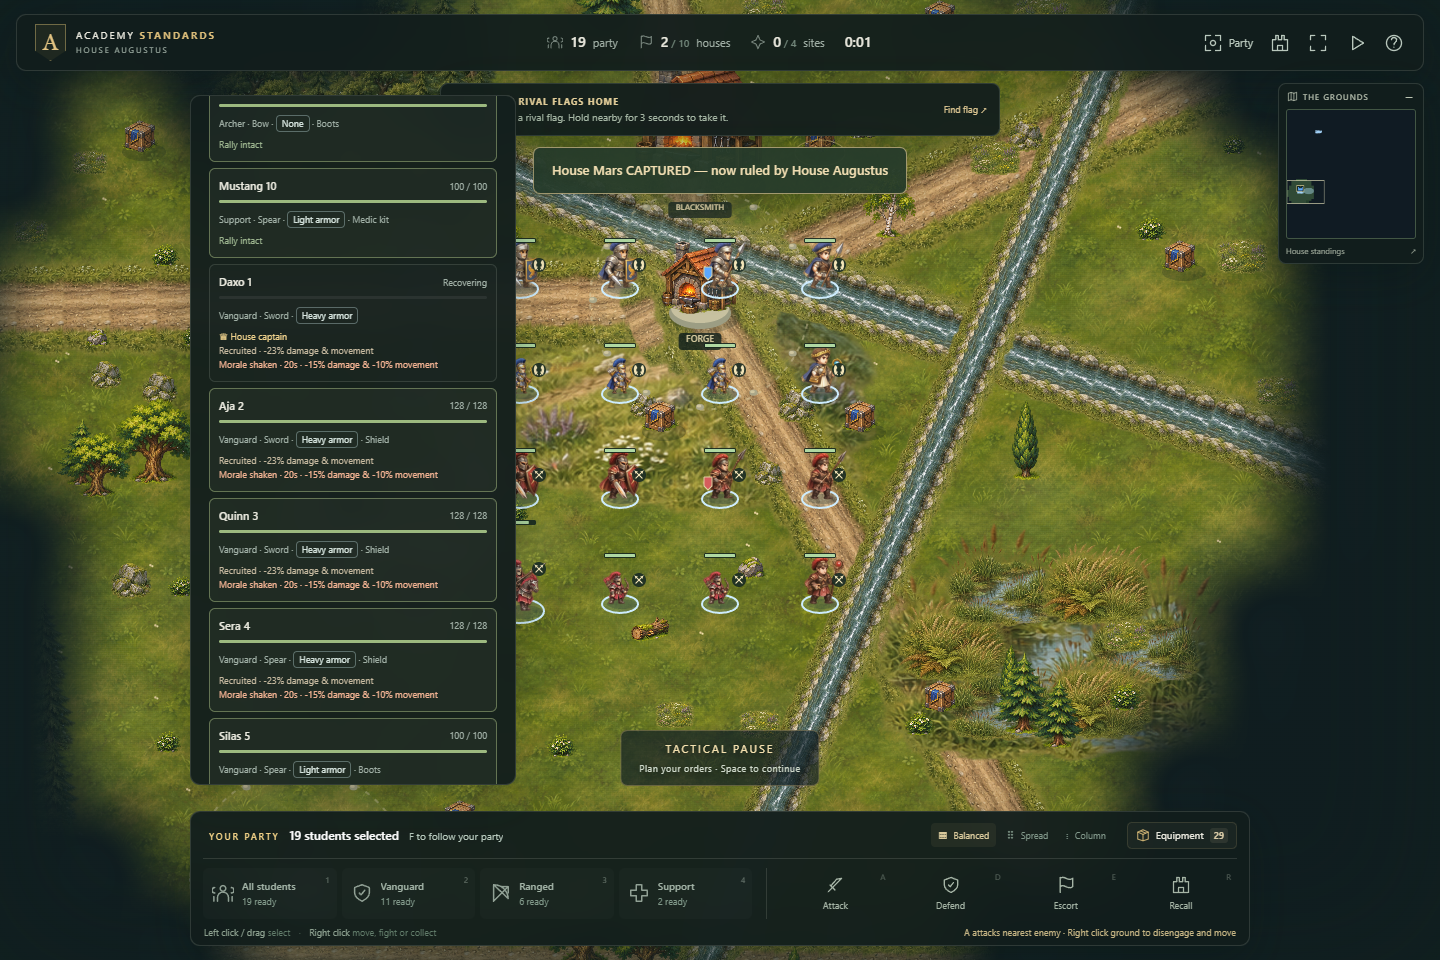
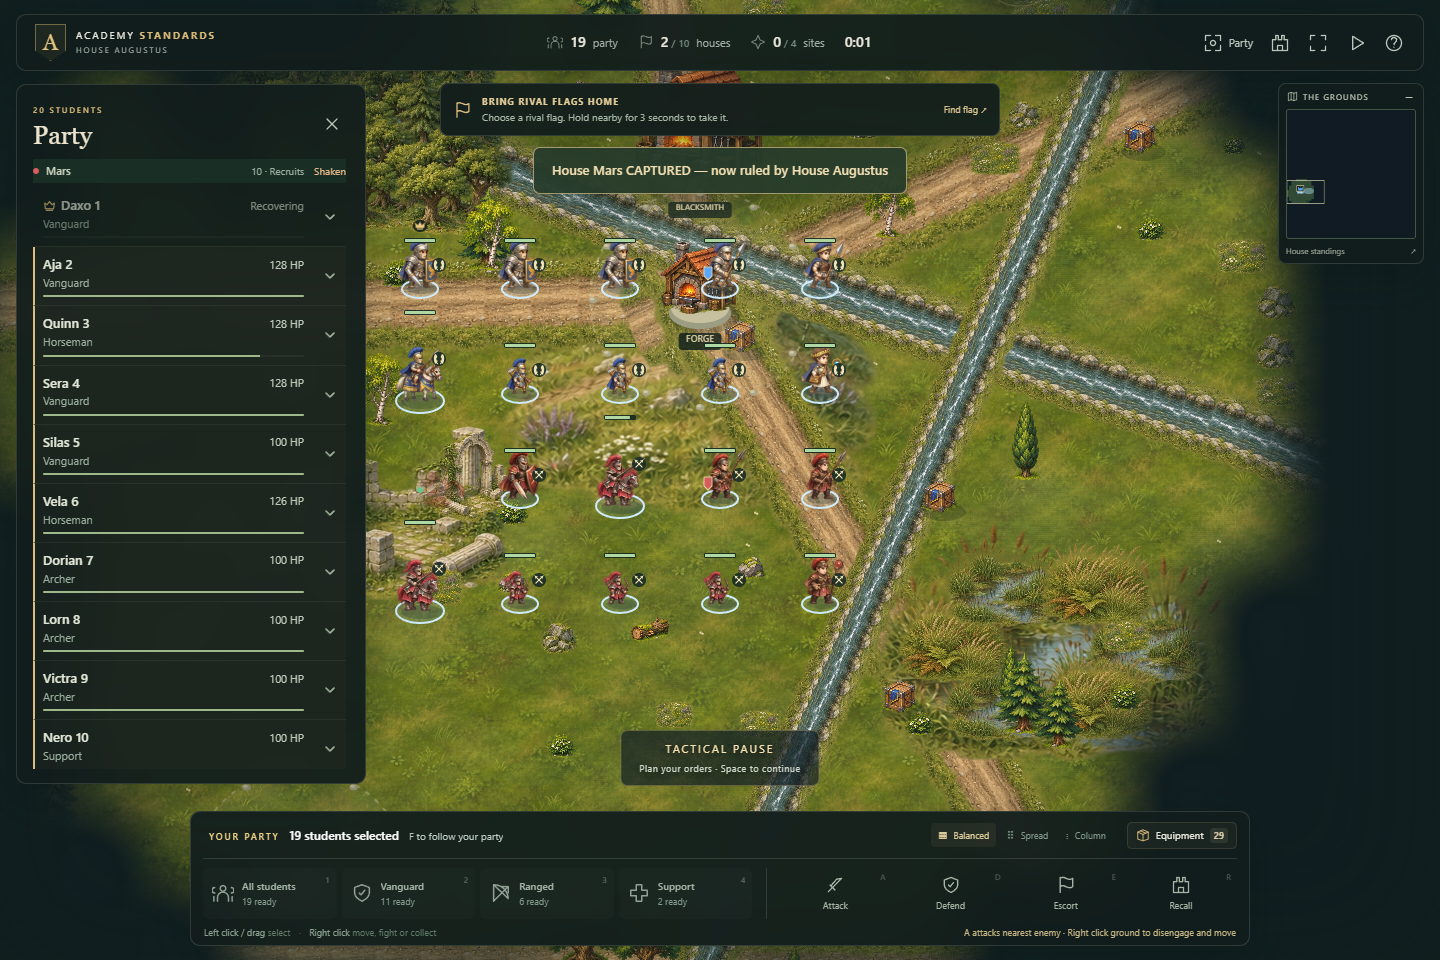
Simplify the party roster with optional student details

diff --git a/games/academy-standards/shell.js b/games/academy-standards/shell.js
@@ -3,7 +3,7 @@
  const $=id=>document.getElementById(id);
  const icon=name=>`<svg aria-hidden="true"><use href="#i-${name}"/></svg>`;
  const esc=value=>String(value??'').replace(/[&<>"']/g,c=>({'&':'&amp;','<':'&lt;','>':'&gt;','"':'&quot;',"'":'&#39;'}[c]));
- const ui={api:null,started:false,menu:true,drawer:null,difficulty:'normal',noticeUntil:0,noticeTimer:null,lastLog:null,drawerKey:'',lastMap:0,outcome:false,modalWasPaused:true,modalDone:null,savedSnapshot:null,lastSaveTime:0,storageAvailable:true,flagFocus:null,flagState:null,flagAnnounceKey:'',houseOwners:null,captureToastUntil:0,mapMarkers:null};
+ const ui={api:null,started:false,menu:true,drawer:null,inspectStudentId:null,rosterSquadsOpen:false,difficulty:'normal',noticeUntil:0,noticeTimer:null,lastLog:null,drawerKey:'',lastMap:0,outcome:false,modalWasPaused:true,modalDone:null,savedSnapshot:null,lastSaveTime:0,storageAvailable:true,flagFocus:null,flagState:null,flagAnnounceKey:'',houseOwners:null,captureToastUntil:0,mapMarkers:null};
  const roleNames={vanguard:'Vanguard',ranged:'Archer',support:'Support'};
  const houseMarks={player:'❧',mars:'⚔',minerva:'◇',diana:'☾',apollo:'☀',juno:'♛',neptune:'♆',vulcan:'⚒',venus:'✿',saturn:'♄'};
  const gearNames={Sword:'Sword',Spear:'Spear',Bow:'Bow',Longbow:'Longbow',Light:'Light armor',Heavy:'Heavy armor',Shield:'Shield',Boots:'Boots',Medkit:'Medic kit',Horse:'Horse',EngineerKit:'Engineer kit',TrapKit:'Trap kit',WarHorn:'War horn',FireOil:'Fire oil'};
@@ -21,8 +21,27 @@
   if(status?.isCaptain)lines.push('<span class="captain-tag">♛ House captain</span>');
   if(s.slaveDebuff)lines.push('<span class="recruited-status">Recruited · -23% damage &amp; movement</span>');
   if(status?.shaken)lines.push(`<span class="shaken-status">Morale shaken · ${Math.max(1,Math.ceil(status.remaining||0))}s · -15% damage &amp; -10% movement</span>`);
-  else if(status&&s.controller==='player')lines.push('<span class="rallied-status">Rally intact</span>');
   return lines.length?`<small class="student-status">${lines.join('')}</small>`:'';
+ }
+
+ const captainMark='<span class="captain-marker" role="img" aria-label="House captain" title="House captain"><svg viewBox="0 0 16 16" aria-hidden="true"><path d="M2 5l3 2 3-4 3 4 3-2-1 7H3zM4 14h8"/></svg></span>';
+ function studentDetail(api,s){
+  const weapon=s.weapon==='None'?'Unarmed':esc(s.weapon)+(s.weaponLevel>1?' · Lv. '+s.weaponLevel:'');
+  return `<div class="student-detail" id="student-detail-${s.id}"><div class="student-detail-heading"><b>${esc(api.getHouse(s.origHouse).name)}</b><span>${Math.ceil(s.hp)} / ${s.maxHp} HP</span></div><dl class="student-equipment"><div><dt>Weapon</dt><dd>${weapon}</dd></div><div><dt>Armor</dt><dd>${s.armor==='None'?'No armor':esc(gearNames[s.armor]||s.armor)}</dd></div><div><dt>Utility</dt><dd>${s.item==='None'?'—':esc(gearNames[s.item]||s.item)}</dd></div>${s.mount?'<div><dt>Mount</dt><dd>Horse</dd></div>':''}</dl>${studentStatus(api,s)}</div>`;
+ }
+ function roster(api){
+  const g=api.game,units=g.students.filter(s=>s.controller==='player');
+  if(!units.some(s=>s.id===ui.inspectStudentId))ui.inspectStudentId=null;
+  const prior=document.querySelector('.roster-squads');if(prior)ui.rosterSquadsOpen=!!prior.open;
+  const groups=api.HOUSE_DEFS.filter(h=>units.some(s=>s.origHouse===h.id));
+  const list=groups.map(h=>{
+   const members=units.filter(s=>s.origHouse===h.id),shaken=api.isHouseShaken?.(members[0]);
+   return `<section class="roster-group" aria-label="${esc(h.name)}"><div class="roster-group-heading"><span><i style="background:${h.color}" aria-hidden="true"></i>${esc(h.name.replace(/^House /,''))}</span><small>${members.length}${h.id!=='player'?' · Recruits':''}${shaken?' <span class="roster-morale" title="Captain down. Inspect a student for details.">Shaken</span>':''}</small></div>${members.map(s=>{
+    const selected=g.selected.has(s.id),expanded=ui.inspectStudentId===s.id;
+    return `<div class="roster-entry ${selected?'active':''} ${s.state==='knocked'?'recovering':''}"><div class="roster-row"><button class="roster-card" data-student="${s.id}" aria-pressed="${selected}"><div class="roster-name-row"><b>${api.isHouseCaptain?.(s)?captainMark:''}${esc(s.name)}</b><small class="roster-hp">${s.state==='knocked'?'Recovering':Math.ceil(s.hp)+' HP'}</small></div><small class="roster-role">${s.mount?'Horseman':roleNames[api.getRole(s)]}</small><div class="health-track" aria-hidden="true"><span style="width:${Math.max(0,Math.min(100,s.hp/s.maxHp*100))}%"></span></div></button><button class="roster-info ${expanded?'expanded':''}" data-inspect-student="${s.id}" aria-label="Details for ${esc(s.name)}" aria-expanded="${expanded}" aria-controls="student-detail-${s.id}"><svg viewBox="0 0 16 16" aria-hidden="true"><path d="M4 6l4 4 4-4"/></svg></button></div>${expanded?studentDetail(api,s):''}</div>`;
+   }).join('')}</section>`;
+  }).join('');
+  return `${list}<details class="roster-squads" ${ui.rosterSquadsOpen?'open':''}><summary>Squads</summary><div class="build-row"><button data-save="2">Save to 2</button><button data-save="3">Save to 3</button><button data-save="4">Save to 4</button></div><button class="roster-reset" data-reset-squads>Reset squads</button></details>`;
  }
 
  function refreshFullscreen(){
@@ -182,12 +201,12 @@
 
  function toggleDrawer(type){
   if(ui.drawer===type){closeDrawer();return;}
-  ui.drawer=type;ui.drawerKey='';$('drawer').classList.remove('hidden');$('drawer').classList.toggle('armory-drawer',type==='equipment');renderDrawer(ui.api);
+  ui.drawer=type;ui.drawerKey='';ui.inspectStudentId=null;ui.rosterSquadsOpen=false;$('drawer').classList.remove('hidden');$('drawer').classList.toggle('armory-drawer',type==='equipment');$('drawer').classList.toggle('roster-drawer',type==='roster');renderDrawer(ui.api);
  }
  function closeDrawer(){ui.drawer=null;$('drawer').classList.add('hidden');if(!ui.menu&&$('modal').classList.contains('hidden'))ui.api?.canvas.focus({preventScroll:true});}
  function renderDrawer(api){
   if(!api)return;const g=api.game,sel=api.getSelectedUnits(),stock=api.getPlayerHouse().stockpile;
-  const key=ui.drawer+'|'+sel.map(s=>`${s.id}:${ui.drawer==='equipment'?'':Math.round(s.hp)}:${s.weapon}:${s.item}:${s.state}`).join(',')+'|'+Object.values(stock).join(',')+'|'+g.houses.map(h=>h.controller).join(',')+'|'+g.activeSquad+'|'+JSON.stringify(window.AcademyArmory?.state)+'|'+g.students.filter(s=>s.controller==='player').map(s=>[s.id,s.weapon,s.weaponLevel,s.armor,s.item,s.mount,s.state].join(':')).join(',')+'|'+(ui.drawer==='roster'?Math.floor(g.time):'');
+  const key=ui.drawer+'|'+sel.map(s=>`${s.id}:${ui.drawer==='equipment'?'':Math.round(s.hp)}:${s.weapon}:${s.item}:${s.state}`).join(',')+'|'+Object.values(stock).join(',')+'|'+g.houses.map(h=>h.controller).join(',')+'|'+g.activeSquad+'|'+JSON.stringify(window.AcademyArmory?.state)+'|'+g.students.filter(s=>s.controller==='player').map(s=>[s.id,s.weapon,s.weaponLevel,s.armor,s.item,s.mount,s.state].join(':')).join(',')+'|'+(ui.drawer==='roster'?Math.floor(g.time)+'|'+ui.inspectStudentId:'');
   if(key===ui.drawerKey)return;ui.drawerKey=key;
   let title='',eyebrow='',body='';
   if(ui.drawer==='equipment'){
@@ -195,9 +214,7 @@
    const priorList=document.querySelector('.armory-students');if(priorList)window.AcademyArmory.state.open=priorList.open;
    body=window.AcademyArmory.render(api);
   }else if(ui.drawer==='roster'){
-   title='Students & squads';eyebrow='YOUR PARTY';
-   const units=g.students.filter(s=>s.controller==='player');
-   body=`<p>Click a student to select them. Shift-click adds or removes students. Gold crowns identify house captains. Save a selection to a squad below.</p><div class="build-row"><button data-save="2">Save to 2</button><button data-save="3">Save to 3</button><button data-save="4">Save to 4</button></div><p><kbd>Ctrl + 2 / 3 / 4</kbd> also saves a squad.</p>${units.map(s=>`<button class="roster-card ${g.selected.has(s.id)?'active':''}" data-student="${s.id}"><div class="row"><b>${esc(s.name)}</b><small>${s.state==='knocked'?'Recovering':`${Math.ceil(s.hp)} / ${s.maxHp}`}</small></div><div class="health-track"><span style="width:${Math.max(0,s.hp/s.maxHp)*100}%"></span></div><small>${roleNames[api.getRole(s)]}${s.mount?' · Mounted':''} · ${s.weapon==='None'?'Unarmed':esc(s.weapon)} · <span class="armor-badge ${api.isChampionArmor(s.armor)?'champion':''}">${esc(gearNames[s.armor]||s.armor)}</span>${s.item!=='None'?' · '+esc(gearNames[s.item]||s.item):''}</small>${studentStatus(api,s)}</button>`).join('')}<button class="wide-button" data-reset-squads>Restore automatic role squads</button>`;
+   title='Party';eyebrow=g.students.filter(s=>s.controller==='player').length+' STUDENTS';body=roster(api);
   }else if(ui.drawer==='standings'){
    title='The ten houses';eyebrow='RIVAL STANDARDS';
    const houses=[...g.houses].sort((a,b)=>(mapMemory[a.id]==='player'?-1:0)-(mapMemory[b.id]==='player'?-1:0)||a.name.localeCompare(b.name));
@@ -205,7 +222,14 @@
   }else if(ui.drawer==='strategy'){
    title='Fight with a plan';eyebrow='TERRAIN & TACTICS';body=`<p>Your students and castles share sight. Unexplored ground is hidden; explored ground stays dim until scouted again. Enemies disappear when sight is lost.</p><p>Almost all supplies lie in the center; home deliveries are rare. Scout and contest the central crates to equip your party.</p><div class="terrain-guide">${[['forest',0,'Woodland','Walkable cover. Slower travel, shorter sight and concealed troops.'],['marsh',1,'Marsh','Slow ground. Horses lose more speed than infantry.'],['ridge',4,'Rocky ridge','Blocks movement and vision. Find a route around it.'],['ruins',5,'Ruins','Broken walls conceal troops and slow movement.'],['hill',6,'High ground','Wider sight and a longer view across the field.'],['road',8,'Road','Faster movement; useful for reinforcement and retreat.'],['river',15,'River & ford','Crossable shallows slow your march. Deep ponds block movement.']].map(([type,frame,name,description])=>`<div class="terrain-card"><span class="terrain-thumb" style="background-position:${(frame%4)*100/3}% ${Math.floor(frame/4)*100/3}%"></span><div><b>${name}</b><p>${description}</p></div></div>`).join('')}</div><p>Positioning and party composition change the outcome of a fight. Attacks land after a visible windup: watch the weapon, then reposition.</p>${api.getCounters().map(x=>`<div class="counter-card"><b>${esc(x.name)}</b><p>${esc(x.detail)}</p></div>`).join('')}<p>Each house has one captain, marked with a gold crown. If the captain falls, their original housemates serving the same ruler become morale shaken: -15% damage and -10% movement for up to 20 seconds. The captain's recovery rallies them early.</p><p>Captured recruits have a separate, lasting weakness: -23% damage and movement while serving another house. Recruits can also become morale shaken; both reductions apply.</p><p>Taking a flag requires a 3-second hold nearby. Damage or nearby enemies interrupt it. Escort the carrier home to capture its castle.</p><p>Central sites grant speed, damage, healing or faster smithing. Enemy presence pauses their capture.</p>`;
   }
+  const scrollArea=ui.drawer==='roster'?$('drawerBody'):$('drawer'),scroll=scrollArea.scrollTop,active=document.activeElement;
+  let focusSelector=null;
+  if(ui.drawer==='roster'&&$('drawerBody').contains(active)){
+   for(const attr of ['data-inspect-student','data-student','data-save','data-reset-squads'])if(active.hasAttribute(attr)){focusSelector=`[${attr}="${active.getAttribute(attr)}"]`;break;}
+   if(active.tagName==='SUMMARY')focusSelector='.roster-squads summary';
+  }
   text($('drawerTitle'),title);text($('drawerEyebrow'),eyebrow);html($('drawerBody'),body);
+  if(ui.drawer==='roster'){scrollArea.scrollTop=scroll;if(focusSelector)$('drawerBody').querySelector(focusSelector)?.focus({preventScroll:true});}
  }
 
  function openMenu(){
@@ -270,6 +294,12 @@
   $('equipmentToggle').addEventListener('click',()=>toggleDrawer('equipment'));$('rosterToggle').addEventListener('click',()=>toggleDrawer('roster'));$('standingsToggle').addEventListener('click',()=>toggleDrawer('standings'));$('closeDrawer').addEventListener('click',closeDrawer);
   $('drawerBody').addEventListener('click',e=>{
    if(ui.drawer==='equipment'&&window.AcademyArmory.handleClick(e,ui.api,toast)){ui.drawerKey='';update(ui.api);return;}
+   const inspect=e.target.closest('[data-inspect-student]');
+   if(inspect){
+    const id=inspect.dataset.inspectStudent,student=ui.api.game.students.find(s=>s.id===id&&s.controller==='player');if(!student)return;
+    ui.inspectStudentId=ui.inspectStudentId===id?null:id;ui.drawerKey='';renderDrawer(ui.api);
+    if(ui.inspectStudentId)$('student-detail-'+id)?.scrollIntoView?.({block:'nearest'});return;
+   }
    const equip=e.target.closest('[data-equip]'),gear=e.target.closest('[data-gear]'),student=e.target.closest('[data-student]'),save=e.target.closest('[data-save]'),build=e.target.closest('[data-build]');
    if(equip){if(!ui.api.getSelectedUnits().length){toast('Select a student or squad first.');return;}equip.dataset.equip==='auto'?ui.api.autoEquipSelected():ui.api.equipPreset(equip.dataset.equip);}
    if(gear)ui.api.spendLootOnSelected(gear.dataset.gear);

diff --git a/games/academy-standards/style.css b/games/academy-standards/style.css
@@ -32,4 +32,20 @@
 .armory-drawer .gear-grid{grid-template-columns:repeat(2,minmax(0,1fr))}.armory-drawer .gear-item{display:flex;gap:9px}.armory-drawer .gear-item>svg{width:23px;height:23px;color:#d5c28d}.gear-item em{display:block;font:normal 8px 'Segoe UI',sans-serif;color:#c8b16e;letter-spacing:.8px;text-transform:uppercase;margin-bottom:3px}.relic-portrait{display:block!important;width:40px;height:54px;flex:0 0 40px;background-size:800% 200%;background-position:0 0;background-repeat:no-repeat;filter:drop-shadow(0 2px 4px #0006)}.armory-item-action{position:sticky;bottom:-18px;margin:14px -4px 2px;padding:12px;background:#142823fa;border:1px solid #dbc08088;box-shadow:0 -5px 20px #0d1919;display:flex;align-items:center;justify-content:space-between;gap:12px;border-radius:7px;z-index:3}.armory-item-action b{font-size:12px;color:#edd8a6}.armory-item-action small{display:block;font-size:10px;color:var(--muted);margin-top:3px}.armory-item-action .primary-button{padding:10px 12px;font-size:11px;white-space:nowrap}.relic-guide{margin-top:15px;font-size:11px;border:1px solid #d4b96e40;padding:10px;border-radius:6px}.relic-guide summary{cursor:pointer;color:#d9c286}.relic-guide p{font-size:10px!important;line-height:1.6}.armory-student small{line-height:1.6}.armor-badge{display:inline-block;padding:1px 5px;font-size:9px;border:1px solid #a8c2c170;border-radius:4px;color:#d4e2dc}.armor-badge.champion{color:#f7d57c;border-color:#dfbd68aa;background:#b5932522}
 @media(max-width:520px){.armory-drawer .gear-grid{grid-template-columns:1fr}.armory-item-action{align-items:flex-start}.armory-item-action .primary-button{font-size:10px}.relic-portrait{width:36px;height:48px;flex-basis:36px}}
 .armory-hero .armory-relic-link{display:block;width:100%;text-align:center;margin-top:8px;font-size:10px;color:#e5c77d;padding:5px}
-.student-status{display:block;margin-top:6px;line-height:1.55;font-size:9px}.student-status>span{display:block}.student-status .captain-tag{color:#eed18c}.student-status .recruited-status{color:#c7baa0}.student-status .shaken-status{color:#f1b292}.student-status .rallied-status{color:#9db58f}.unit-tooltip .student-status{max-width:215px}
+.student-status{display:block;margin-top:6px;line-height:1.55;font-size:9px}.student-status>span{display:block}.student-status .captain-tag{color:#eed18c}.student-status .recruited-status{color:#c7baa0}.student-status .shaken-status{color:#f1b292}.unit-tooltip .student-status{max-width:215px}
+
+/* Compact party list. Equipment and effect details open for one student only. */
+.drawer.roster-drawer{top:84px;bottom:auto;left:16px;width:350px;max-height:calc(100dvh - 260px);padding:14px 16px;display:flex;flex-direction:column;overflow:hidden}
+.roster-drawer #drawerBody{overflow-y:auto;min-height:0;overscroll-behavior:contain;padding-right:3px}.roster-drawer .drawer-heading{margin-bottom:10px;flex:0 0 auto}.roster-drawer .drawer-heading h2{font-size:25px}
+.roster-group{margin:0 0 12px}.roster-group-heading{display:flex;align-items:center;justify-content:space-between;gap:8px;margin:0 0 5px;padding:4px 0;color:#c9d2bd;font-size:11px;position:sticky;top:0;background:#192e25;z-index:1}
+.roster-group-heading>span{display:flex;align-items:center;gap:7px;font-weight:600}.roster-group-heading i{width:6px;height:6px;border-radius:50%}.roster-group-heading small{font-size:10px;color:#9daf9f}.roster-morale{color:#e6b789;margin-left:7px}
+.roster-entry{border-bottom:1px solid #c3cda015;border-left:2px solid transparent}.roster-entry.active{border-left-color:#d9bc7e;background:#d9bc7e07}.roster-row{display:grid;grid-template-columns:minmax(0,1fr) 32px;align-items:center;min-height:55px}
+.roster-drawer .roster-card{display:block;min-width:0;width:100%;padding:8px 10px 8px 8px;margin:0;border:0;border-radius:0;background:none;text-align:left}.roster-drawer .roster-card:hover{background:#ffffff06}
+.roster-name-row{display:flex;align-items:center;justify-content:space-between;gap:8px}.roster-drawer .roster-card b{display:flex;align-items:center;gap:5px;min-width:0;font-size:13px;font-weight:600;color:#e2e8d7}.roster-drawer .roster-hp{flex-shrink:0;font-size:11px;font-variant-numeric:tabular-nums;color:#bdcbb8}.roster-drawer .roster-role{display:block;margin-top:2px;font-size:11px;line-height:1.3;color:#9aaf9d}
+.roster-drawer .health-track{height:2px;margin:5px 0 0;background:#c9d9b111}.roster-drawer .health-track span{background:#9eb88b}.roster-entry.recovering .roster-card{opacity:.6}
+.captain-marker{display:inline-flex;color:#e2c47c;flex:0 0 13px}.captain-marker svg{width:13px;height:13px;stroke-width:1.5}
+.roster-info{display:grid;place-items:center;width:32px;min-height:40px;border-radius:4px;color:#9caf98}.roster-info:hover{background:#ffffff09}.roster-info svg{width:16px;height:16px;transition:transform .15s}.roster-info.expanded svg{transform:rotate(180deg);color:#dfc38a}
+.student-detail{padding:10px;margin:0 6px 9px;background:#0c1d194a;border-radius:5px}.student-detail-heading{display:flex;justify-content:space-between;gap:10px;font-size:11px;color:#b6c7ac}.student-detail-heading b{font-weight:600}.student-detail-heading>span{font-variant-numeric:tabular-nums;white-space:nowrap;color:#93aa95}
+.student-equipment{margin:9px 0 0;display:grid;gap:5px;font-size:11px}.student-equipment>div{display:flex;justify-content:space-between;gap:12px}.student-equipment dt{color:#91a58e}.student-equipment dd{margin:0;text-align:right;color:#d0dac6}.student-detail .student-status{margin-top:9px;font-size:10px;line-height:1.65}
+.roster-squads{padding:8px 0 1px;border-top:1px solid var(--line);font-size:11px;color:#b3c2ac}.roster-squads summary{cursor:pointer;padding:3px 0}.roster-squads .build-row{margin-top:9px}.roster-reset{font-size:10px;color:#91a88f;padding:10px 0 0}
+@media(max-width:760px){.drawer.roster-drawer{top:78px;left:8px;width:min(350px,calc(100vw - 16px));max-height:calc(100dvh - 285px)}}

diff --git a/games/academy-standards/index.html b/games/academy-standards/index.html
@@ -4,7 +4,7 @@
 <meta charset="utf-8"><meta name="viewport" content="width=device-width,initial-scale=1">
 <title>Academy Standards · The Banner Trial</title>
 <meta name="description" content="Lead your party, outthink rival houses, and bring every banner home. A complete offline tactical strategy game.">
-<link rel="stylesheet" href="style.css?v=captains-center-1">
+<link rel="stylesheet" href="style.css?v=compact-party-1">
 </head>
 <body>
 <svg class="svg-library" aria-hidden="true"><defs>
@@ -91,5 +91,5 @@
  <button id="eqSword"></button><button id="eqSpear"></button><button id="eqBow"></button><button id="eqLongbow"></button><button id="eqLight"></button><button id="eqHeavy"></button><button id="eqShield"></button><button id="eqBoots"></button><button id="eqMedkit"></button><button id="eqHorse"></button><button id="eqEngineer"></button><button id="eqTrapKit"></button><button id="eqWarHorn"></button><button id="eqFireOil"></button>
  <button id="modeMove"></button><button id="modeDefend"></button><button id="modeEscort"></button><button id="modeAttackMove"></button><button id="placeBarricade"></button><button id="placeTrap"></button><button id="cancelPlace"></button><button id="selectAll"></button><button id="recall"></button><button id="focusFlag"></button><button id="restart"></button>
 </div>
-<script src="assets.js?v=captains-center-1"></script><script src="armor-troops.js?v=captains-center-1"></script><script src="renderer.js?v=captains-center-1"></script><script src="champions.js?v=captains-center-1"></script><script src="armory.js?v=captains-center-1"></script><script src="shell.js?v=captains-center-1"></script><script src="equipment.js?v=captains-center-1"></script><script src="strategy.js?v=captains-center-1"></script><script src="engine.js?v=captains-center-1"></script>
+<script src="assets.js?v=compact-party-1"></script><script src="armor-troops.js?v=compact-party-1"></script><script src="renderer.js?v=compact-party-1"></script><script src="champions.js?v=compact-party-1"></script><script src="armory.js?v=compact-party-1"></script><script src="shell.js?v=compact-party-1"></script><script src="equipment.js?v=compact-party-1"></script><script src="strategy.js?v=compact-party-1"></script><script src="engine.js?v=compact-party-1"></script>
 </body></html>
